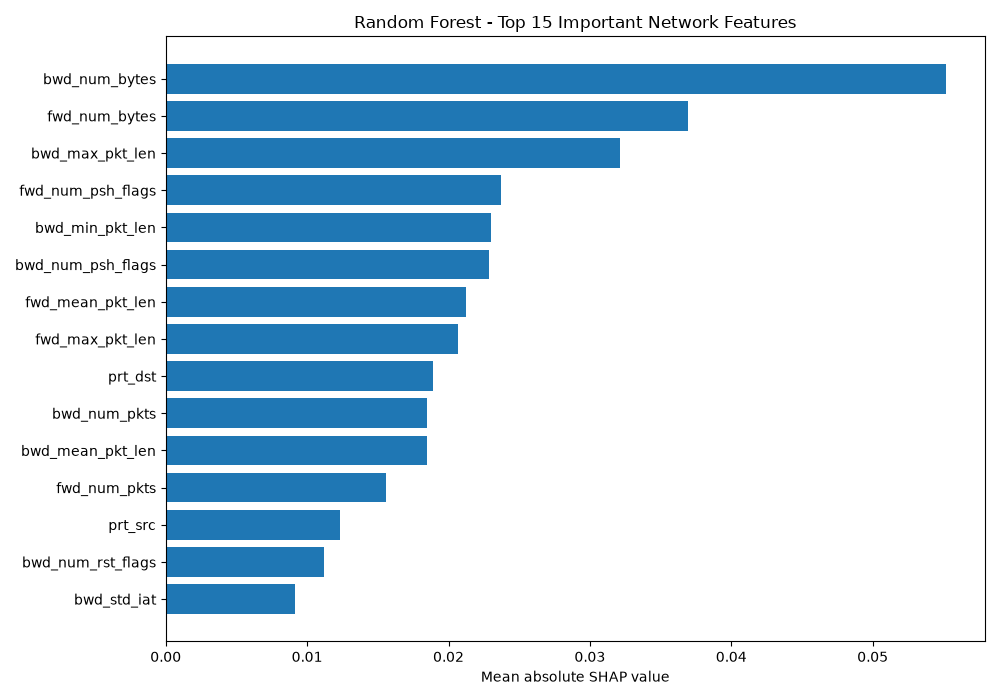
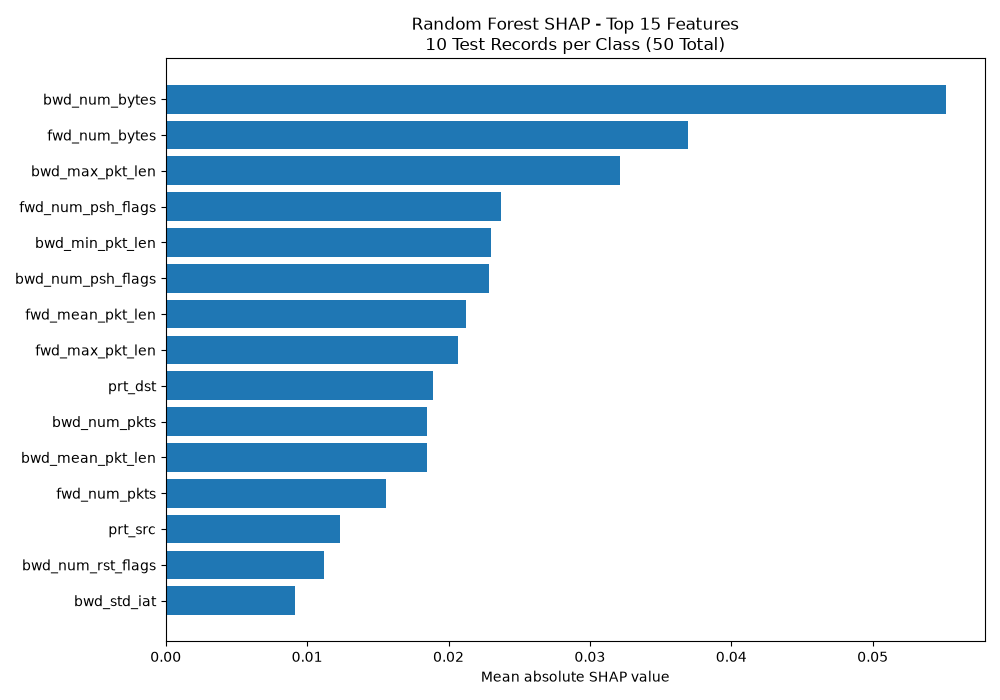
Document SHAP analysis and update feature importance chart

diff --git a/src/explain_shap.py b/src/explain_shap.py
@@ -66,7 +66,7 @@ top_features = importance.head(15).sort_values("importance")
 plt.figure(figsize=(10, 7))
 plt.barh(top_features["feature"], top_features["importance"])
 plt.xlabel("Mean absolute SHAP value")
-plt.title("Random Forest - Top 15 Important Network Features")
+plt.title("Random Forest SHAP - Top 15 Features\n10 Test Records per Class (50 Total)")
 plt.tight_layout()
 plt.savefig(output_dir / "feature_importance.png")
 plt.close()

diff --git a/results/shap/README.md b/results/shap/README.md
@@ -1,0 +1,60 @@
+
+# Random Forest SHAP Analysis
+
+## Purpose
+We used SHAP to understand which network traffic features influence our Random Forest intrusion detection model.
+
+## Why TreeExplainer?
+We selected SHAP TreeExplainer because our model is a Random Forest, which is made of decision trees. TreeExplainer is designed to explain tree-based models.
+
+## Dataset and Sampling
+We used the MQTT-IoT-IDS2020 Bi-flow dataset.
+
+The model uses 27 network features and predicts 5 classes.
+
+For this analysis, we randomly selected 10 test records from each class, giving us 50 records total.
+
+We used random seed 42 so the same records can be selected again.
+
+## Method
+We calculated SHAP values for the 50 selected records.
+
+We then calculated the mean absolute SHAP value for each feature, averaging across all selected records and all 5 classes.
+
+A larger value means the feature had more influence on the model's predictions in this sample.
+
+## Results
+The three most influential features were:
+
+1. bwd_num_bytes — 0.055184
+2. fwd_num_bytes — 0.036965
+3. bwd_max_pkt_len — 0.032152
+
+These features describe the amount of network traffic and packet sizes.
+
+## Output Files
+- feature_importance.csv — rankings for all 27 features
+- feature_importance.png — chart showing the top 15 features
+- ../../src/explain_shap.py — Python script used to generate the results
+
+## How to Reproduce
+First, run the dataset preprocessing script:
+
+    python src/preprocess_dataset.py
+
+Next, train the Random Forest:
+
+    python src/train_random_forest.py
+
+Finally, generate the SHAP results:
+
+    python src/explain_shap.py
+
+## Limitations
+This explanation uses only 50 test records, so the results may not represent the entire dataset.
+
+We intentionally selected the same number of records from each class. This means the results represent a balanced sample rather than the actual class distribution.
+
+SHAP describes how features influence model predictions. It does not prove that those features cause attacks.
+
+The model's very high test accuracy also needs further validation before making claims about real-world performance.
